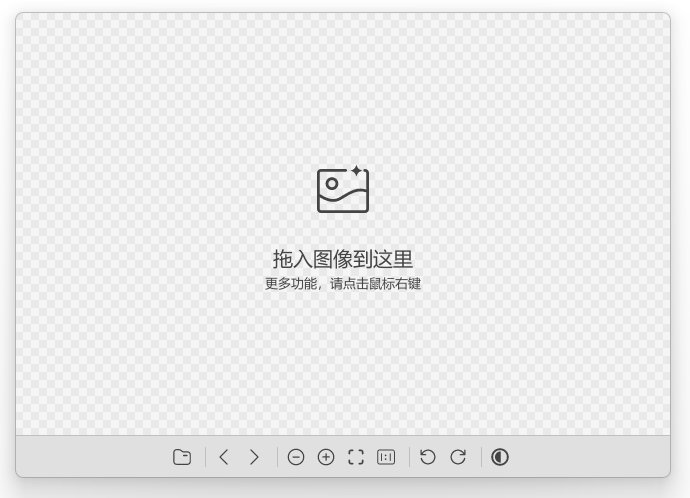
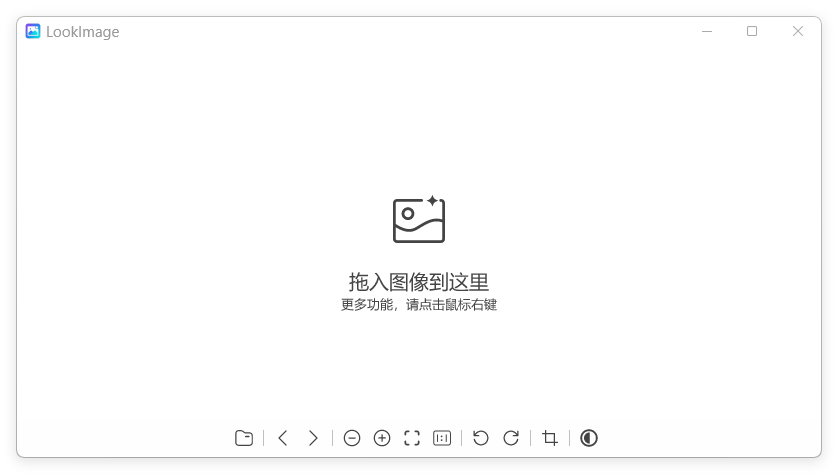
README.md

Changed region(s): [[0.0, 0.4135, 1.0, 1.0], [0.3652, 0.3249, 0.6087, 0.6793], [0.0304, 0.0, 0.9739, 0.0886]]

diff --git a/README.md b/README.md
@@ -4,9 +4,9 @@
 
 #### 欢迎大家使用，有任何建议、问题，可以在此提 Issues！
 
-QQ交流群：793870787
-官方网站：https://yangyxd.github.io/LookImage2/web/ 
-官方网站：https://lookimage2.pages.dev/
+QQ交流群：[793870787](https://qm.qq.com/q/G4va2pBkwa)
+
+官方网站：[Github](https://yangyxd.github.io/LookImage2/web/)、[Cloudflare 镜像](https://lookimage2.pages.dev/)
 
 ## ✨ 功能特性
 
